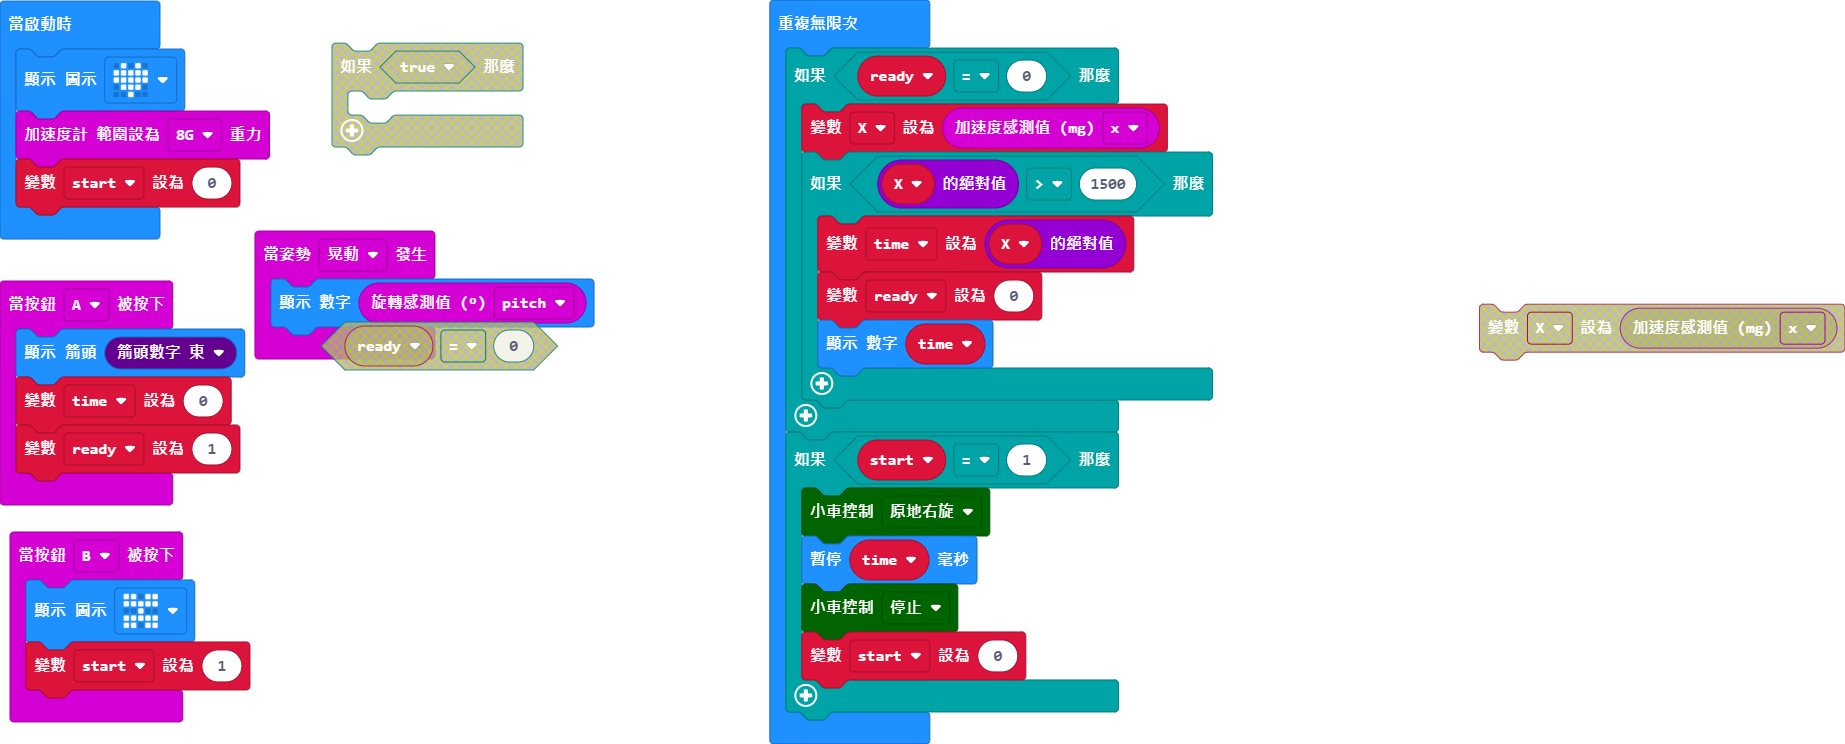
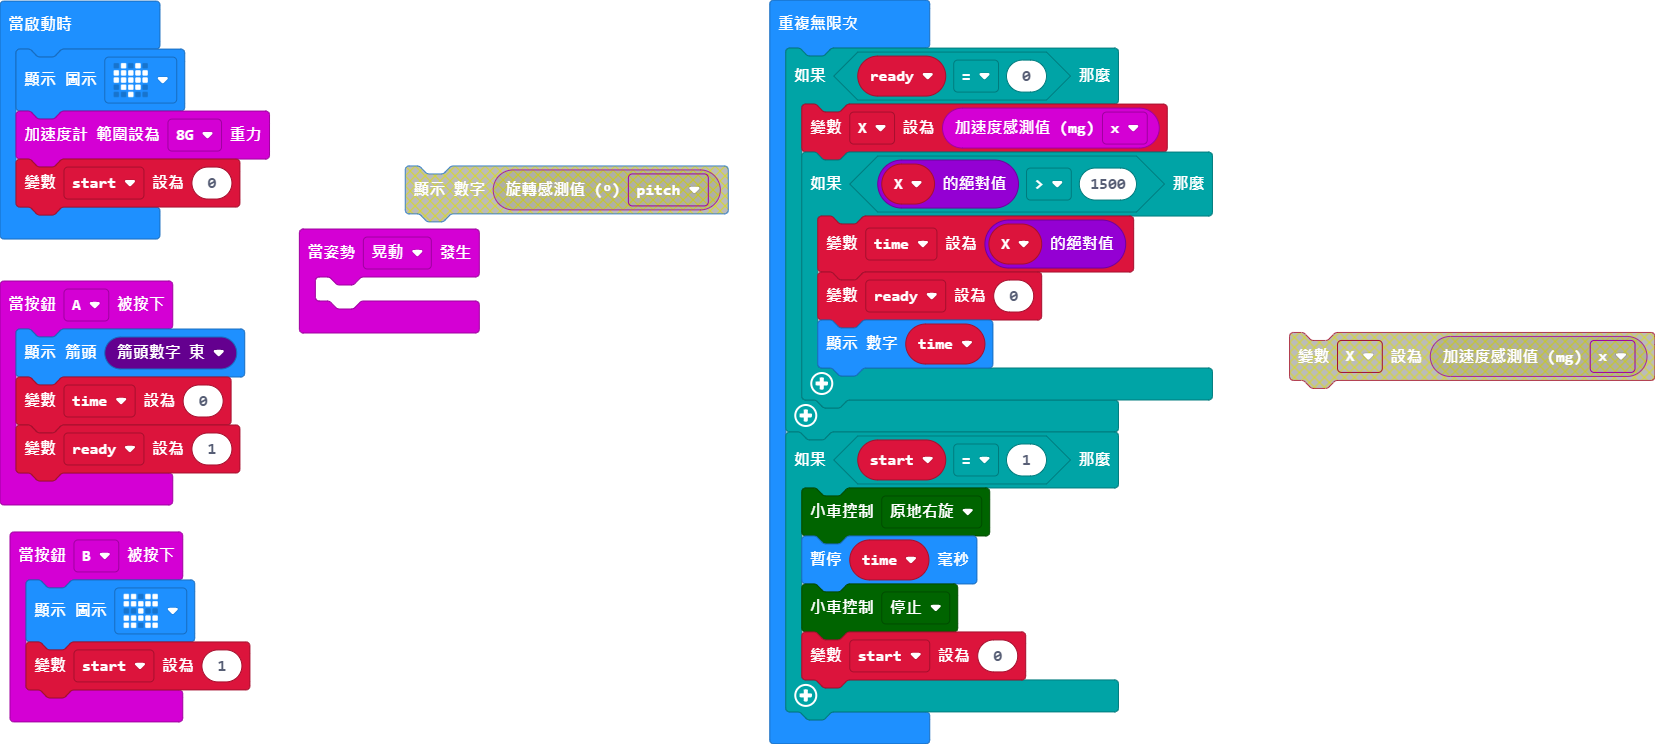
更新 main.blocks, main.ts

Changed region(s): [[0.0, 0.0, 0.7396, 1.0], [0.7704, 0.4019, 1.0, 0.5255], [0.0, 0.711, 0.1541, 0.9892]]

diff --git a/main.ts b/main.ts
@@ -4,7 +4,7 @@ input.onButtonPressed(Button.A, function () {
     ready = 1
 })
 input.onGesture(Gesture.Shake, function () {
-    basic.showNumber(input.rotation(Rotation.Pitch))
+	
 })
 input.onButtonPressed(Button.B, function () {
     basic.showIcon(IconNames.Butterfly)
